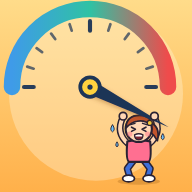
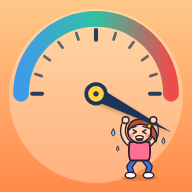
Add files via upload

diff --git a/index.html b/index.html
@@ -937,6 +937,8 @@ header{position:relative}
       <div class="src" id="remNote">В шторке появится «Как себя чувствуешь?» со всеми смайликами — нажмите нужный, и отметка сохранится, не открывая приложение.</div>
       <button class="btn ghost" id="remTest">👀 Показать пример уведомления</button>
     </div>
+    <div class="ctitle" id="icoT" hidden>Значок приложения</div>
+    <label class="rsw" id="icoW" hidden style="justify-content:space-between"><span>Значок меняется по погоде<br><span class="fhm">спокойно — стрелка далеко, тяжело — давит на человечка</span></span><input type="checkbox" id="icoOn"><span class="knob" aria-hidden="true"></span></label>
     <div class="ctitle">Синхронизация и резервная копия</div>
     <div class="ysync" id="ysync"></div>
     <div class="ctitle">О приложении</div>
@@ -1365,6 +1367,7 @@ function render(){
   $("hours").innerHTML=hrs.slice(i,i+25).map((x,n)=>`<div class="h${n===0?" now":""}"><div class="t">${n===0?"сейчас":fmtH(new Date(x.t))}</div>${icon(x.sym)}<div class="v">${Math.round(x.temp)}°</div></div>`).join("");
   if(typeof render5==="function") render5();
   if(typeof renderRisk==="function") renderRisk();
+  if(typeof iconPlanSoon==="function") iconPlanSoon();
   sky.set(c, cur);
   if(!$("hist").hidden) drawHistory();
 }
@@ -2415,7 +2418,7 @@ function renderToggles(){
   $("tglList").innerHTML=CARDS.map(([id,l,d])=>`<label><span>${l}<small>${d}</small></span><span class="rsw"><input type="checkbox" data-card="${id}" ${LAYOUT[id]?"checked":""}><span class="knob" aria-hidden="true"></span></span></label>`).join("");
 }
 $("tglList").addEventListener("change",e=>{ const c=e.target.closest("[data-card]"); if(!c) return; LAYOUT[c.dataset.card]=c.checked; store.set("layout",JSON.stringify(LAYOUT)); applyLayout(); if(c.checked&&c.dataset.card==="cardRain") drawRadar(); });
-const APP_VER="26.09 · сборка 29 (уведомления о сообщениях, карта: масштаб, линейка, по GPS)";
+const APP_VER="26.09 · сборка 30 (значок меняется по погоде)";
 $("gearBtn").addEventListener("click",()=>{ $("appVer").textContent="Версия приложения: "+APP_VER; renderToggles(); renderY(); showSheet("setSheet"); });
 applyLayout();
 
@@ -3039,9 +3042,9 @@ for(const id of ["rFrom","rTo"]) $(id).addEventListener("change",()=>{ const f=n
 
 
 /* ---------- today: how much the weather may affect wellbeing (0–10) ---------- */
-function weatherRisk(){
+function weatherRisk(at){
   const f=S.feed[S.slug]; if(!f||!f.hours) return null;
-  const now=Date.now(), hs=f.hours.filter(h=>+new Date(h.t)>=now-2*H&&+new Date(h.t)<=now+22*H); if(hs.length<8) return null;
+  const now=at||Date.now(), hs=f.hours.filter(h=>+new Date(h.t)>=now-2*H&&+new Date(h.t)<=now+22*H); if(hs.length<8) return null;
   const pp=hs.map(h=>h.p!=null?h.p*HPA2MM:null).filter(v=>v!=null), T=hs.map(h=>h.temp);
   let j3=0; for(let i=3;i<pp.length;i++) j3=Math.max(j3,Math.abs(pp[i]-pp[i-3]));
   const dP=pp.length?pp[pp.length-1]-pp[0]:0, dT=Math.max(...T)-Math.min(...T);
@@ -4165,6 +4168,28 @@ if(MN){
 }
 renderRemind();
 
+
+/* ---------- the launcher icon follows the weather (build 30+) ----------
+   A plan for the next days, 3-hour steps, with the same 0–10 score as the "today" card:
+   0–3 calm, 4–6 middle, 7–10 hard. The phone switches the icon itself every ~3 hours. */
+const ICO = (window.Capacitor&&window.Capacitor.isNativePlatform&&window.Capacitor.isNativePlatform()) ? (window.Capacitor.Plugins?.IconSwitch||null) : null;
+const icoOn = () => store.get("iconWx")!=="0";
+let icoTimer=0;
+function iconPlanSoon(){ if(!ICO) return; clearTimeout(icoTimer); icoTimer=setTimeout(iconPlanSend, 2500); }
+function iconPlan(){
+  const plan=[], step=3*H, t0=Math.floor(Date.now()/step)*step;
+  for(let t=t0; t<t0+5*DAY; t+=step){ const r=weatherRisk(t); if(!r) { if(t>Date.now()) break; else continue; }
+    plan.push({t, l:r.sc<=3?"calm":r.sc<=6?"mid":"bad"}); }
+  return plan;
+}
+async function iconPlanSend(){ if(!ICO) return; try{ await ICO.configure({on:icoOn(), plan:icoOn()?iconPlan():[]}); }catch(e){} }
+if(ICO){
+  $("icoT").hidden=false; $("icoW").hidden=false; $("icoOn").checked=icoOn();
+  $("icoOn").addEventListener("change",async()=>{ store.set("iconWx",$("icoOn").checked?"1":"0"); await iconPlanSend();
+    toast($("icoOn").checked?"Значок обновится, когда вы выйдете из приложения.":"Вернётся обычный значок, когда вы выйдете из приложения."); });
+  // switching the icon while the app is on screen may close it, so do it when the person leaves
+  document.addEventListener("visibilitychange",()=>{ if(document.hidden) ICO.applyNow().catch(()=>{}); });
+}
 /* ---------- Android Back button (native app) ---------- */
 {
   const AppP = PREF ? window.Capacitor.Plugins?.App : null;
